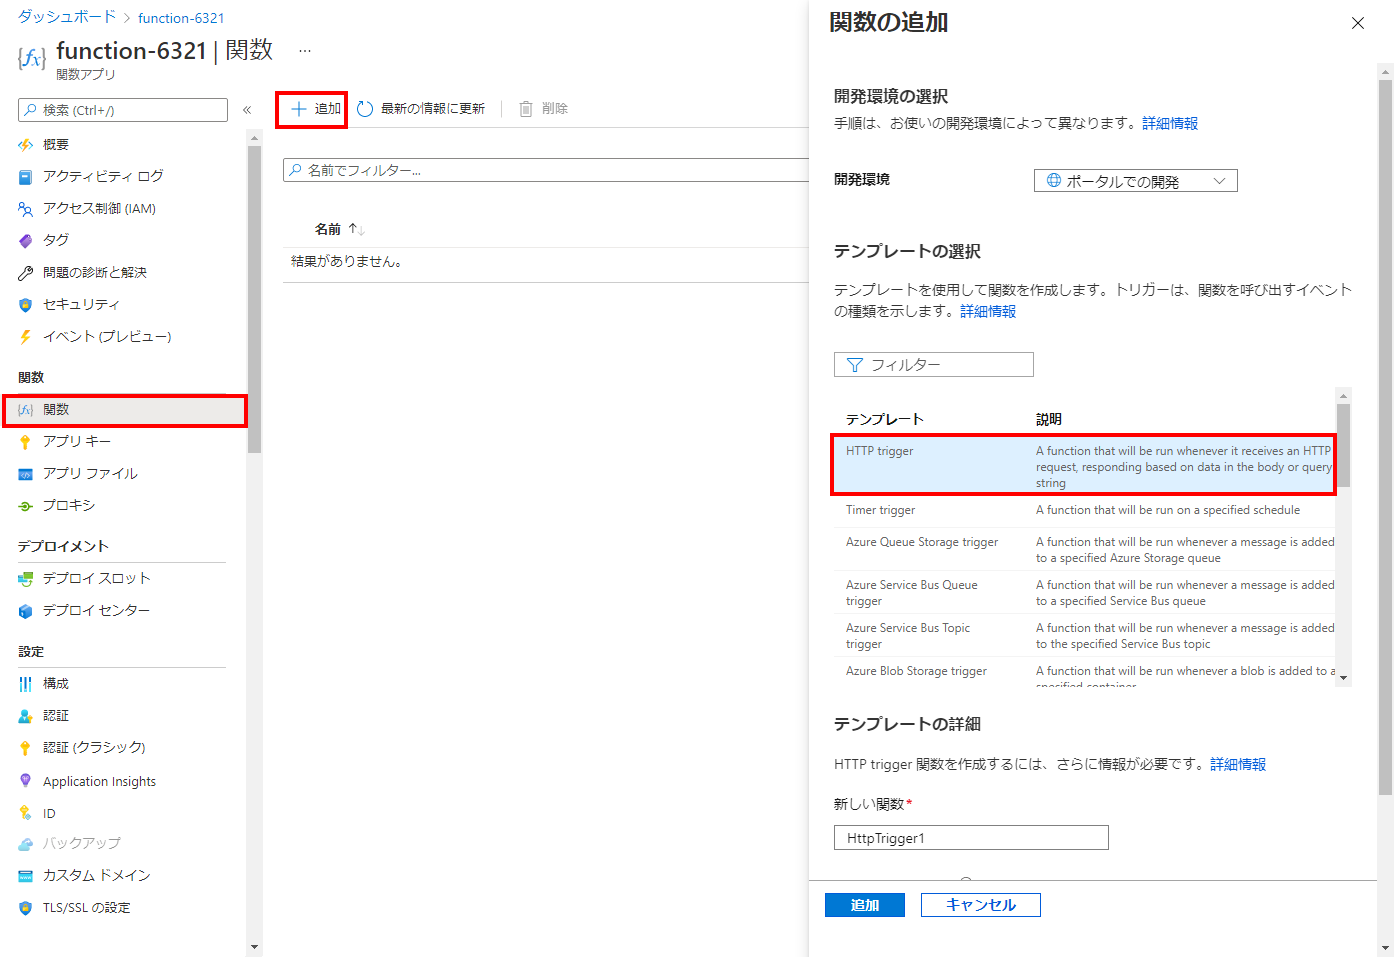
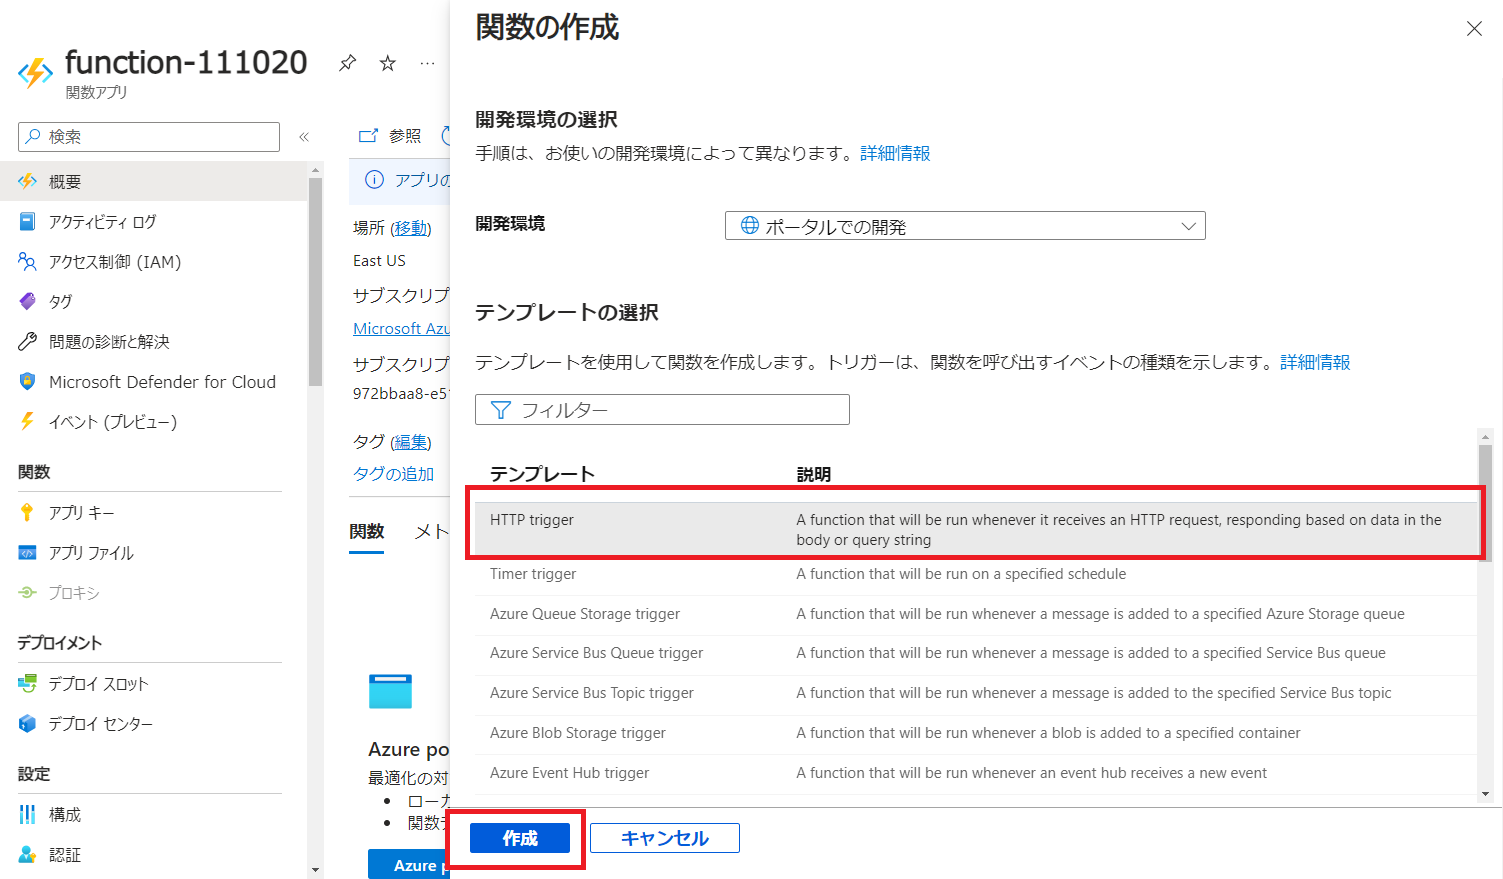
update

diff --git a/LabManual/06-Option-Implement Azure Functions.md b/LabManual/06-Option-Implement Azure Functions.md
@@ -1,9 +1,9 @@
 ---
 wts:
-    title: '06 - Option Azure Functions の実装 (15 分)'
+    title: '06 - Azure Functions の実装 (15 分)'
     module: 'モジュール 03: コア ソリューションおよび管理ツールに関する説明'
 ---
-# 06 - オプション Azure Functions の実装 (15 分)
+# 06 - Azure Functions の実装 (15 分)
 
 このチュートリアルでは、HTTP 要求がある場合に Hello メッセージを表示する関数アプリを作成します。 
 
@@ -47,13 +47,13 @@ wts:
 
 1. **「関数アプリ」** ブレードで、新しく作成した関数アプリをクリックします。 
 
-2. **「関数」** セクションで、 **「関数」** をクリックしてから **「+ 作成」** をクリックします。
+2. **「概要」** ブレードで下にスクロールし、 **「関数」** タブで **「Azure portal で作成」** をクリックします。
 
     
 
     ![0702](./images/0702.png)
 
-3. **「関数の追加」** ウィンドウが右側に表示されます。 **「テンプレートの選択」** セクションで、 **「HTTP trigger」** を選択して **「作成」** をクリックします 
+3. **「関数の作成」** ウィンドウが右側に表示されます。 **「テンプレートの選択」** セクションで、 **「HTTP trigger」** を選択して **「作成」** をクリックします 
 
     ![Azure Portal 内のドット ネットの [はじめに] ペインの Azure Functions で関数を作成する手順のスクリーンショット。Azure Functions に新しい webhook を追加するために使用する表示要素を示す HTTP トリガー カードが強調表示されます。](./images/0702a.png)
 
